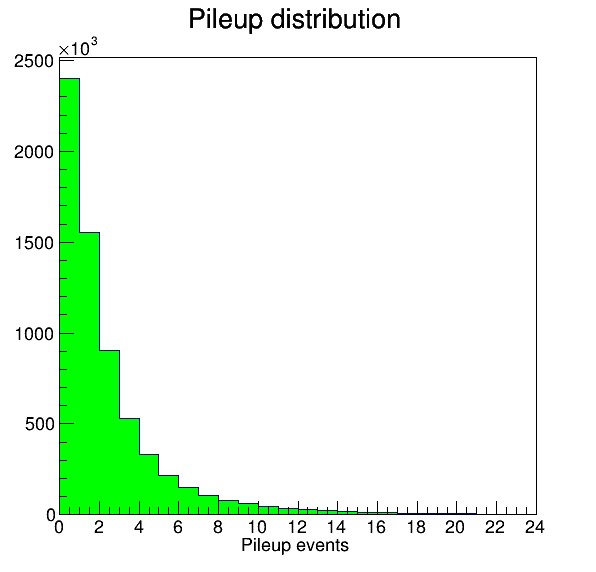
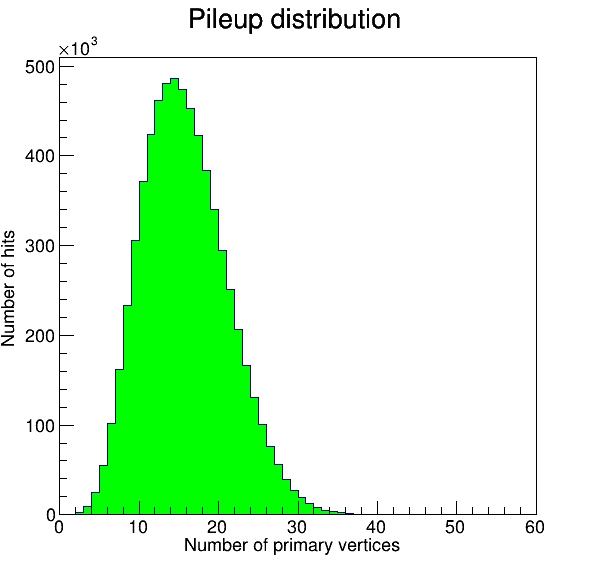
Updating exercise

diff --git a/Ex11/Stadnitski/selector.C b/Ex11/Stadnitski/selector.C
@@ -14,7 +14,7 @@ void selector::Begin(TTree * /*tree*/) {
 
 void selector::SlaveBegin(TTree * /*tree*/) {
    TString option = GetOption();
-   h = new TH1F("nJet", "Pileup distribution", 24, 0, 24);
+   h = new TH1F("nJet", "Pileup distribution", 60, 0, 60);
 }
 
 Bool_t selector::Process(Long64_t entry) {
@@ -25,11 +25,7 @@ Bool_t selector::Process(Long64_t entry) {
    // Check if the event passes the trigger
    if (*HLT_IsoMu24) {
       nN++;
-      // Check if the event is a pileup event
-      if (Jet_puId[*nJet]) {
-         //std::cout << nN << std::endl;
-         h -> Fill(*nJet);
-      }
+      h -> Fill(*PV_npvs);
    }
 
    return kTRUE;
@@ -46,10 +42,10 @@ void selector::Terminate() {
    std::cout << "Trigger efficiency : " << efficiency << endl;
 
    h -> SetFillColor(3);
-   h -> GetXaxis() -> SetTitle("Pileup events");
+   h -> GetXaxis() -> SetTitle("Number of primary vertices");
    h -> GetXaxis() -> CenterTitle(true);
-   //h -> GetYaxis() -> SetTitle("Number of hits");
-   //h -> GetYaxis() -> CenterTitle(true);
+   h -> GetYaxis() -> SetTitle("Number of hits");
+   h -> GetYaxis() -> CenterTitle(true);
 
    h -> Draw();
    h -> SetStats(0);
